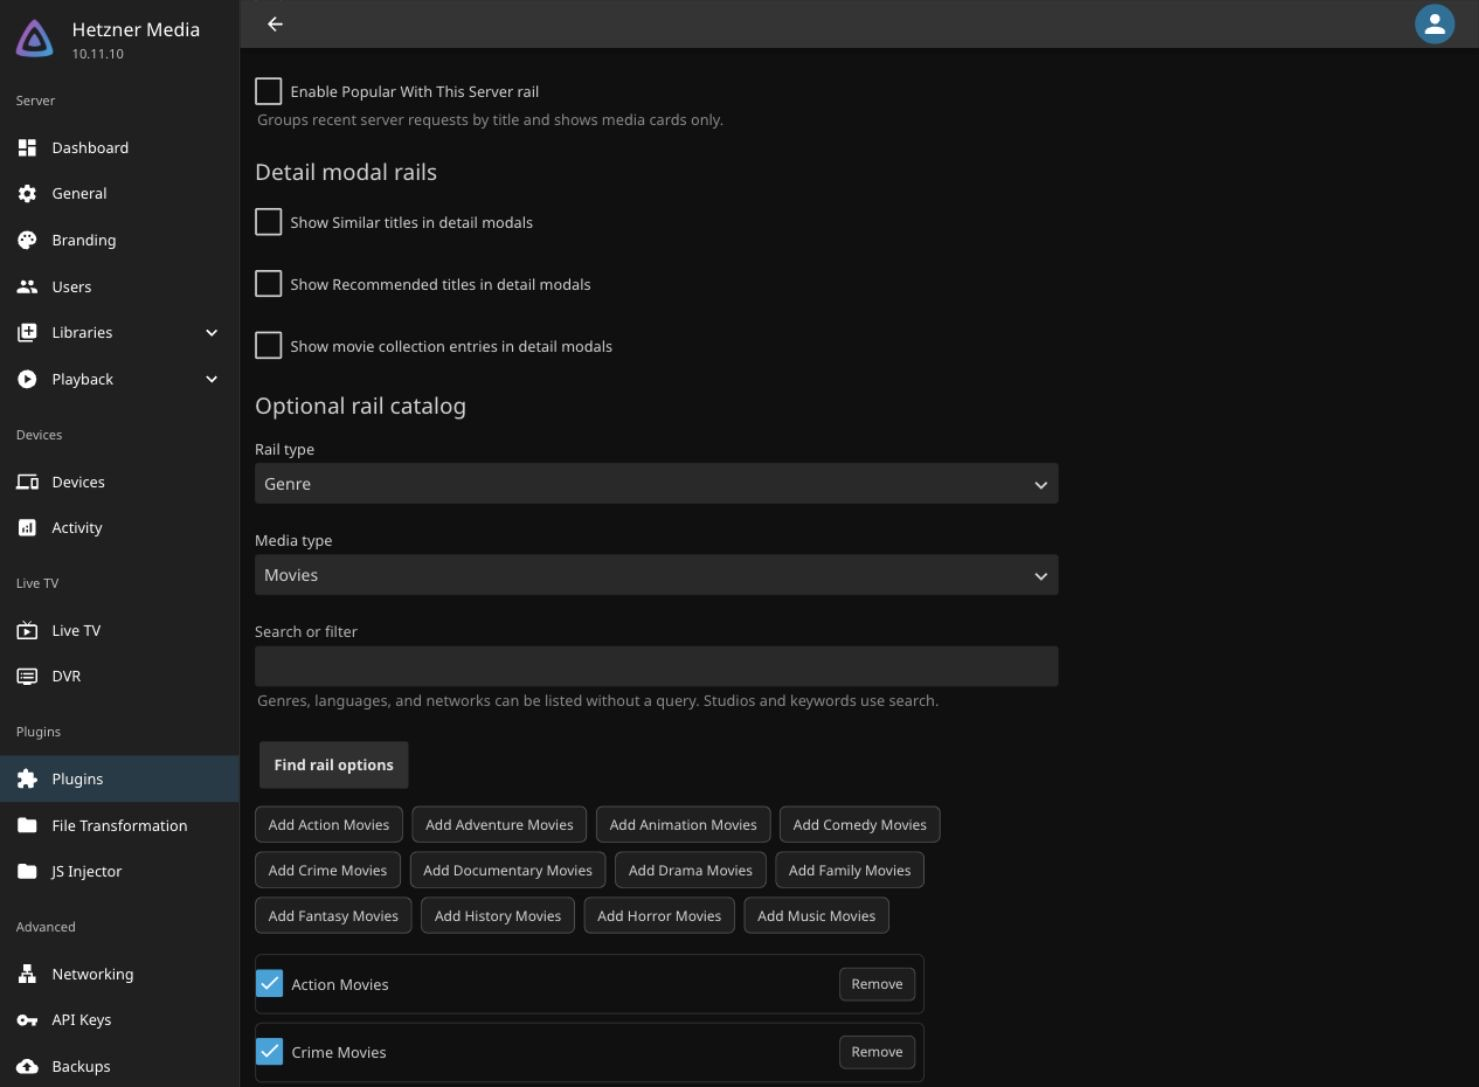
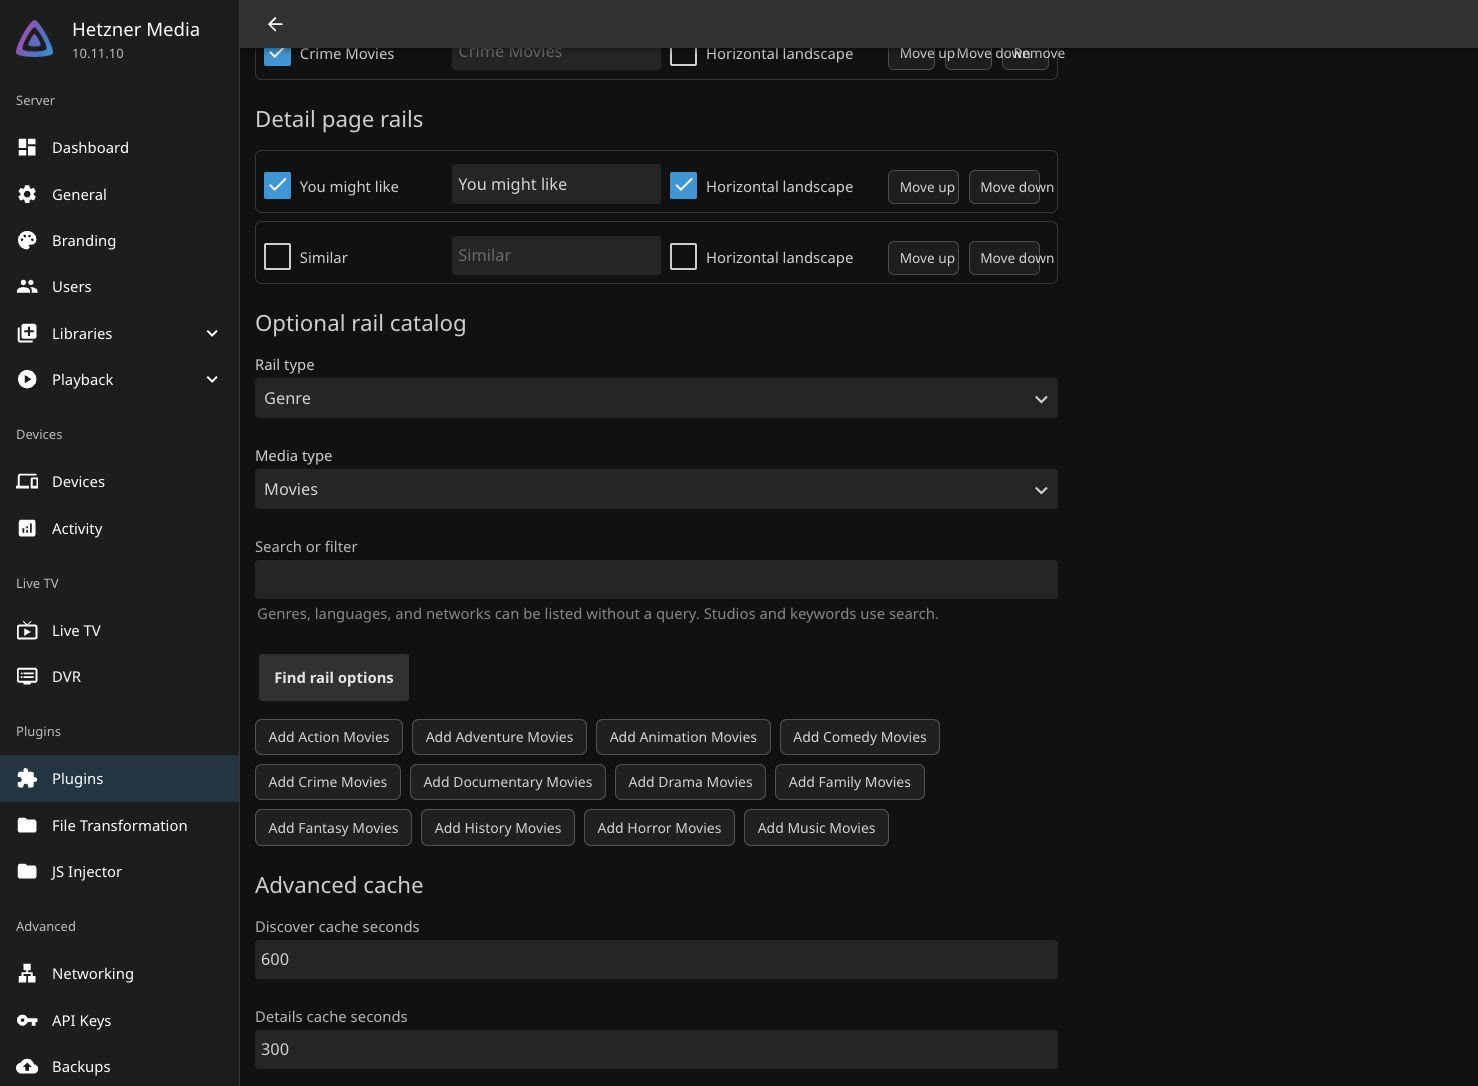
docs: prepare 1.0 pre-release docs

diff --git a/README.md b/README.md
@@ -4,7 +4,9 @@ Seerr Discover is a Jellyfin server plugin that adds Seerr-backed Discover rails
 
 ## Status
 
-Seerr Discover is distributed as a stable third-party Jellyfin plugin through a self-hosted Jellyfin plugin repository. The `0.3.x` line is the supported release line for repository installs.
+Seerr Discover is distributed as a stable third-party Jellyfin plugin through a self-hosted Jellyfin plugin repository. The `0.3.x` line remains the supported public release line for repository installs while `staging` prepares the `1.0.0.0` pre-release.
+
+For 1.0 pre-release testing, install from the selected GitHub pre-release manifest or zip once published. The public repository URL below continues to track the stable line until the 1.0 release is promoted.
 
 Repository URL:
 
@@ -52,19 +54,19 @@ See [Companion Plugins](docs/COMPANION-PLUGINS.md) for repository sources, compa
 
 ## Screenshots
 
-These screenshots were captured from a live Jellyfin Web session and show the plugin UI without configuration pages or API secrets.
+These screenshots were captured from live Jellyfin Web sessions and show the plugin UI without API secrets. Media grid captures are index-style UI views; the detail modal capture uses public-domain media.
 
 | Discover rails | Native search integration |
 | --- | --- |
 | ![Screenshot of Seerr Discover browse rails in Jellyfin Web](docs/assets/screenshots/discover-rails.jpg) | ![Screenshot of requestable Seerr results in Jellyfin native search](docs/assets/screenshots/native-search.jpg) |
 
-| Detail modal | Mobile layout |
+| Detail modal | Native detail page rails |
 | --- | --- |
-| ![Screenshot of the Seerr Discover detail modal](docs/assets/screenshots/detail-modal.jpg) | ![Screenshot of Seerr Discover on a narrow mobile layout](docs/assets/screenshots/mobile-layout.jpg) |
+| ![Screenshot of the Seerr Discover detail modal](docs/assets/screenshots/detail-modal.jpg) | ![Screenshot of Seerr Discover native Jellyfin detail page rails](docs/assets/screenshots/native-detail-rails.jpg) |
 
-| Optional rail catalog |
-| --- |
-| ![Screenshot of the Seerr Discover optional rail catalog in Jellyfin plugin settings](docs/assets/screenshots/optional-rails-catalog.jpg) |
+| Mobile layout | Rail settings and optional catalog |
+| --- | --- |
+| ![Screenshot of Seerr Discover on a narrow mobile layout](docs/assets/screenshots/mobile-layout.jpg) | ![Screenshot of Seerr Discover rail settings and optional catalog in Jellyfin plugin settings](docs/assets/screenshots/optional-rails-catalog.jpg) |
 
 ## Requirements
 
@@ -80,11 +82,12 @@ Custom Tabs and JavaScript Injector are intentional dependencies for the v1 UI s
 
 ## Features
 
-- Rails-only Discover tab for configurable Trending Movies, Trending TV, Popular Movies, Popular TV, Upcoming Movies, and Upcoming TV rows
+- Rails-only Discover tab for configurable Trending Movies, Popular Movies, Trending TV, Popular TV, Upcoming Movies, Upcoming TV, Recently Requested, and Popular With This Server rows
+- Native Jellyfin movie and series detail pages can show Seerr-backed Similar and Recommended rails
 - Per-rail vertical poster or horizontal landscape artwork layouts, custom rail headings, and saved rail ordering for Discover and detail page rails
 - Optional admin-selected rails for genres, movie studios, TV networks, original languages, and keywords
 - Requestable Seerr movie and series results inside Jellyfin's native search page
-- Detail modal with poster/backdrop, metadata, cast/crew, trailers, and Seerr links
+- Detail modal with poster/backdrop, metadata, cast/crew, trailers, Seerr links, and related rails
 - Request creation as the mapped Seerr user
 - Available/requested/requestable state badges
 - Watch Now and Open Details handoff for available Jellyfin items

diff --git a/docs/TROUBLESHOOTING.md b/docs/TROUBLESHOOTING.md
@@ -42,7 +42,7 @@
 ## Seerr Results Do Not Appear in Jellyfin Search
 
 - Confirm `Show Seerr results in Jellyfin search` is enabled in Dashboard > Plugins > Seerr Discover.
-- Confirm the JavaScript Injector loader is authenticated, enabled, and points to the installed plugin version.
+- Confirm the JavaScript Injector loader is authenticated, enabled, and points to `/SeerrDiscover/assets/discover.js`.
 - Search from Jellyfin's native search page, not from the Discover tab.
 - Check the browser network panel for successful `/SeerrDiscover/client-config` and `/SeerrDiscover/search` responses.
 - If Jellyfin already has the matching movie or series by TMDB id, Seerr Discover hides that duplicate from the Seerr row.
@@ -66,7 +66,7 @@ Seerr, Radarr/Sonarr, and Jellyfin can update at different times. Seerr Discover
 The Discover page is injected into Jellyfin Web through Custom Tabs. Browser, desktop, and mobile clients can host Jellyfin Web with different layout classes, header behavior, and theme CSS. Seerr Discover computes its top spacing from Jellyfin Web's active page/header CSS at runtime instead of relying only on fixed breakpoints.
 
 - Confirm the installed asset includes the latest spacing fix.
-- Update the JavaScript Injector query string after upgrading.
+- Confirm `/SeerrDiscover/assets/discover.js` is served from the upgraded plugin, then hard-refresh Jellyfin Web.
 - Hard-refresh or restart the client app.
 - Test the actual affected client. A resized desktop browser does not fully emulate Jellyfin Desktop or mobile app webviews.
 - If the issue remains, report the client type, viewport size, Jellyfin version, active theme or custom CSS, whether the client is desktop or mobile app, and a screenshot.

diff --git a/docs/INSTALL.md b/docs/INSTALL.md
@@ -2,6 +2,8 @@
 
 ## Jellyfin Repository Install
 
+The public repository currently serves the stable release line unless a 1.0 pre-release manifest has been explicitly selected for testing.
+
 Add the self-hosted repository URL in:
 
 ```text
@@ -24,11 +26,13 @@ Restart Jellyfin after installation. Open Dashboard > Plugins > Seerr Discover a
 
 ## Release-Asset Fallback
 
-If GitHub Pages is temporarily unavailable, use the `manifest.json` attached to the latest GitHub release:
+If GitHub Pages is temporarily unavailable, stable installs can use the `manifest.json` attached to the latest GitHub release:
 
 ```text
 https://github.com/omgwtfwow/jellyfin-plugin-seerr-discover/releases/latest/download/manifest.json
 ```
+
+For 1.0 pre-release testing, use the `manifest.json` attached to the selected GitHub pre-release instead of `releases/latest`, because GitHub's latest release URL normally resolves to the stable release line.
 
 ## Manual Zip Install
 
@@ -104,5 +108,5 @@ Restart Jellyfin.
 
 - Existing plugin settings should survive a version upgrade.
 - The API key field is write-only in the config page. Leave it blank to preserve the current key.
-- Update the JavaScript Injector loader query string to the installed plugin version after upgrading.
+- No JavaScript Injector query string update is required after upgrading. Keep the loader pointed at `/SeerrDiscover/assets/discover.js`, then hard-refresh Jellyfin Web or restart the client app.
 - The Discover tab no longer has a separate search bar; use Jellyfin's native search page for Seerr search.

diff --git a/CHANGELOG.md b/CHANGELOG.md
@@ -1,5 +1,21 @@
 # Changelog
 
+## 1.0.0.0-pre
+
+- Prepare the 1.0 pre-release documentation set for staging review.
+- Add native Jellyfin movie and series detail-page Similar and Recommended rails.
+- Add Discover and detail rail presentation controls for enablement, ordering,
+  custom headings, and vertical poster or horizontal landscape artwork.
+- Add optional Discover rails for genres, movie studios, TV networks, original
+  languages, and keywords.
+- Add Recently Requested and Popular With This Server Discover rails.
+- Preserve Jellyfin-native theme hooks for section, card, modal, and detail rail
+  rendering so custom themes can style Seerr Discover like native Jellyfin UI.
+- Keep the JavaScript Injector loader versionless at
+  `/SeerrDiscover/assets/discover.js`.
+- Refresh README screenshots for native detail page rails and current rail
+  settings without the removed Collections control.
+
 ## 0.3.0.0
 
 - Promote Seerr Discover as the stable third-party Jellyfin plugin release line.

diff --git a/docs/RELEASE.md b/docs/RELEASE.md
@@ -49,9 +49,11 @@
 
 ## Release Posture
 
-- `0.3.x` is the stable third-party release line distributed through the self-hosted Jellyfin plugin repository.
+- `staging` is preparing the `1.0.0.0` pre-release documentation and feature surface.
+- `0.3.x` remains the stable third-party release line distributed through the self-hosted Jellyfin plugin repository until 1.0 is promoted.
 - Stable releases use plain four-part tags such as `v0.3.0.0`.
-- Prereleases use tag markers such as `-rc`, `-beta`, or `-alpha`; only those tags are marked prerelease on GitHub.
+- Pre-releases use tag markers such as `v1.0.0.0-rc.1`, `-beta`, or `-alpha`; only those tags are marked pre-release on GitHub.
+- Do not rely on `releases/latest/download/manifest.json` for 1.0 pre-release testing; use the manifest attached to the selected pre-release.
 - Keep release assets compatible with Jellyfin repository installs: plugin zip, SHA-256 checksum, and `manifest.json`.
 
 ## GitHub Markdown Hygiene
